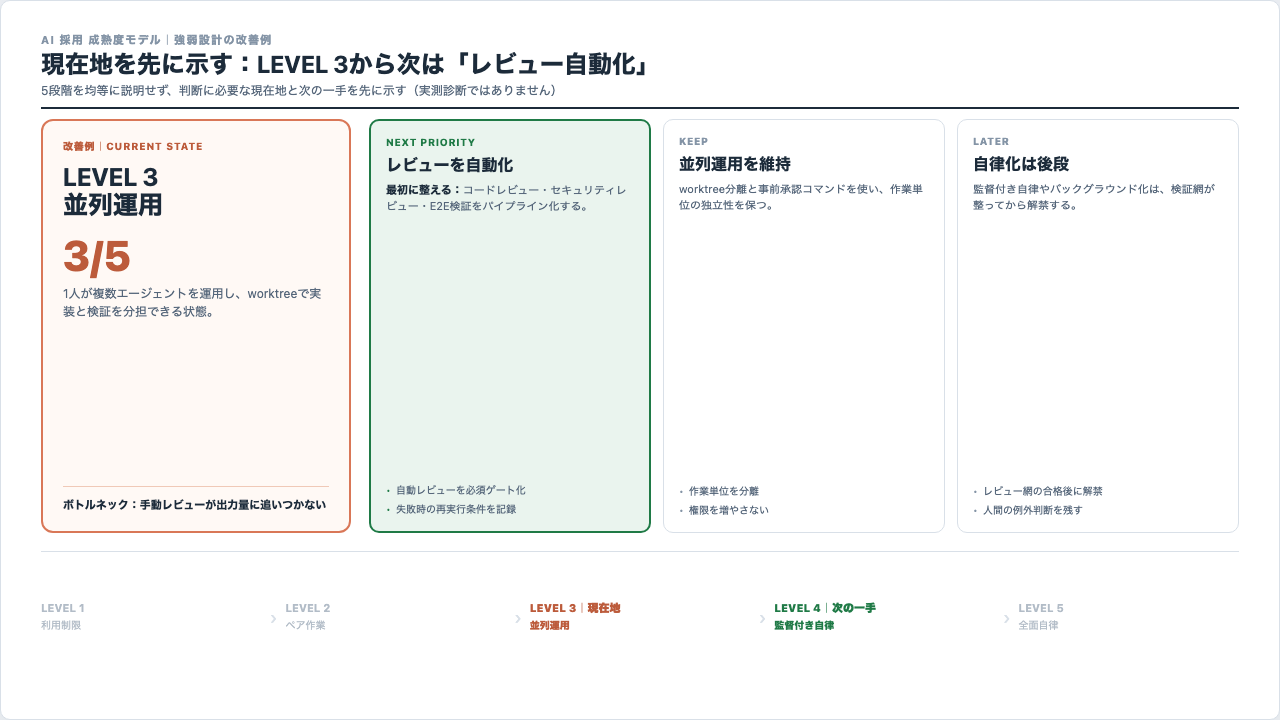
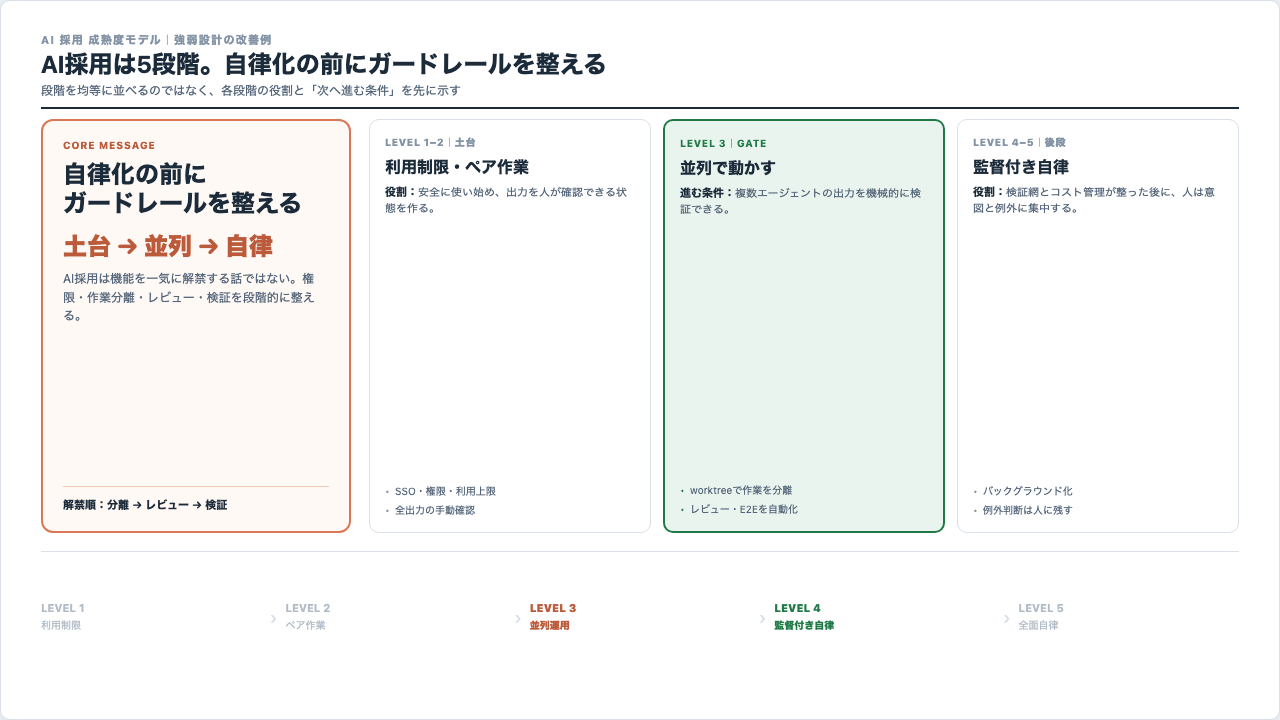
【修正】成熟度スライドの主題を復元

diff --git a/slides/AI採用成熟度-現在地と次の一手/解説スライド.html b/slides/AI採用成熟度-現在地と次の一手/解説スライド.html
@@ -1,5 +1,5 @@
 <meta charset="utf-8">
-<title>AI採用成熟度 — 現在地と次の一手（強弱設計の改善例）</title>
+<title>AI採用成熟度 — 5段階と解禁条件（強弱設計の改善例）</title>
 <style>
   :root {
     --page: #EDF0F4;
@@ -134,12 +134,12 @@
 
   .slide-meta { height: 10px; }
 
-  /* 資料全体の強弱を検証する改善版: 現在地と次の一手だけを強くする */
+  /* 資料全体の強弱を検証する改善版: 結論と解禁条件を先に強くする */
   .focus-layout { display: grid; grid-template-columns: 310px 1fr; grid-template-rows: 1fr 118px; gap: 18px; flex: 1; min-height: 0; }
   .current-panel { border: 2px solid var(--claude); border-radius: 12px; padding: 18px 20px; background: var(--focus-soft); display: flex; flex-direction: column; gap: 9px; }
   .panel-kicker { font-size: 10px; font-weight: 800; letter-spacing: .08em; color: var(--claude-deep); }
-  .current-panel h2 { font-size: 25px; line-height: 1.12; color: var(--ink); }
-  .current-score { font-size: 42px; font-weight: 800; color: var(--claude-deep); line-height: 1; margin-top: 6px; }
+  .current-panel h2 { font-size: 24px; line-height: 1.2; color: var(--ink); }
+  .current-score { font-size: 24px; font-weight: 800; color: var(--claude-deep); line-height: 1.2; margin-top: 6px; }
   .current-score small { font-size: 15px; color: var(--ink-2); font-weight: 600; }
   .current-panel p { font-size: 12px; line-height: 1.55; color: var(--ink-2); }
   .current-panel .signal { margin-top: auto; padding-top: 9px; border-top: 1px solid var(--focus-border); font-size: 11px; color: var(--ink); font-weight: 700; }
@@ -168,49 +168,49 @@
 
     <header class="slide-header">
       <span class="slide-eyebrow">AI 採用 成熟度モデル｜強弱設計の改善例</span>
-      <h1 class="slide-title">現在地を先に示す：LEVEL 3から次は「レビュー自動化」</h1>
-      <p class="slide-subtitle">5段階を均等に説明せず、判断に必要な現在地と次の一手を先に示す（実測診断ではありません）</p>
+      <h1 class="slide-title">AI採用は5段階。自律化の前にガードレールを整える</h1>
+      <p class="slide-subtitle">段階を均等に並べるのではなく、各段階の役割と「次へ進む条件」を先に示す</p>
     </header>
 
     <div class="focus-layout">
       <section class="current-panel">
-        <span class="panel-kicker">改善例｜CURRENT STATE</span>
-        <h2>LEVEL 3<br>並列運用</h2>
-        <div class="current-score">3<span>/5</span></div>
-        <p>1人が複数エージェントを運用し、worktreeで実装と検証を分担できる状態。</p>
-        <p class="signal">ボトルネック：手動レビューが出力量に追いつかない</p>
+        <span class="panel-kicker">CORE MESSAGE</span>
+        <h2>自律化の前に<br>ガードレールを整える</h2>
+        <div class="current-score">土台 → 並列 → 自律</div>
+        <p>AI採用は機能を一気に解禁する話ではない。権限・作業分離・レビュー・検証を段階的に整える。</p>
+        <p class="signal">解禁順：分離 → レビュー → 検証</p>
       </section>
 
       <section class="next-panel">
+        <article class="next-card">
+          <span class="tag">LEVEL 1–2｜土台</span>
+          <h3>利用制限・ペア作業</h3>
+          <p><strong>役割：</strong>安全に使い始め、出力を人が確認できる状態を作る。</p>
+          <ul><li>SSO・権限・利用上限</li><li>全出力の手動確認</li></ul>
+        </article>
         <article class="next-card next-card--priority">
-          <span class="tag">NEXT PRIORITY</span>
-          <h3>レビューを自動化</h3>
-          <p><strong>最初に整える：</strong>コードレビュー・セキュリティレビュー・E2E検証をパイプライン化する。</p>
-          <ul><li>自動レビューを必須ゲート化</li><li>失敗時の再実行条件を記録</li></ul>
+          <span class="tag">LEVEL 3｜GATE</span>
+          <h3>並列で動かす</h3>
+          <p><strong>進む条件：</strong>複数エージェントの出力を機械的に検証できる。</p>
+          <ul><li>worktreeで作業を分離</li><li>レビュー・E2Eを自動化</li></ul>
         </article>
         <article class="next-card">
-          <span class="tag">KEEP</span>
-          <h3>並列運用を維持</h3>
-          <p>worktree分離と事前承認コマンドを使い、作業単位の独立性を保つ。</p>
-          <ul><li>作業単位を分離</li><li>権限を増やさない</li></ul>
-        </article>
-        <article class="next-card">
-          <span class="tag">LATER</span>
-          <h3>自律化は後段</h3>
-          <p>監督付き自律やバックグラウンド化は、検証網が整ってから解禁する。</p>
-          <ul><li>レビュー網の合格後に解禁</li><li>人間の例外判断を残す</li></ul>
+          <span class="tag">LEVEL 4–5｜後段</span>
+          <h3>監督付き自律</h3>
+          <p><strong>役割：</strong>検証網とコスト管理が整った後に、人は意図と例外に集中する。</p>
+          <ul><li>バックグラウンド化</li><li>例外判断は人に残す</li></ul>
         </article>
       </section>
 
       <div class="maturity-row" aria-label="AI採用成熟度の5段階">
         <div class="maturity"><b>LEVEL 1</b>利用制限</div><div class="maturity-arrow">›</div>
         <div class="maturity"><b>LEVEL 2</b>ペア作業</div><div class="maturity-arrow">›</div>
-        <div class="maturity maturity--current"><b>LEVEL 3｜現在地</b>並列運用</div><div class="maturity-arrow">›</div>
-        <div class="maturity maturity--next"><b>LEVEL 4｜次の一手</b>監督付き自律</div><div class="maturity-arrow">›</div>
+        <div class="maturity maturity--current"><b>LEVEL 3</b>並列運用</div><div class="maturity-arrow">›</div>
+        <div class="maturity maturity--next"><b>LEVEL 4</b>監督付き自律</div><div class="maturity-arrow">›</div>
         <div class="maturity"><b>LEVEL 5</b>全面自律</div>
       </div>
 
-      <!-- 旧5段階カードの均等配置は、改善版では現在地・次の一手・後段へ再編した -->
+      <!-- 旧5段階カードの均等配置は、改善版では役割・解禁条件の順へ再編した -->
     </div>
 
     <!--

diff --git a/index.html b/index.html
@@ -1153,9 +1153,9 @@ const SLIDES = [
   },
   {
     "key": "AI採用成熟度-現在地と次の一手",
-    "title": "AI採用成熟度 — 現在地と次の一手（強弱設計の改善例）",
-    "target": "AI採用成熟度モデルを、現在地・次の重点施策・後段の順に読み替えた強弱設計の改善例",
-    "problems": "5段階を均等に説明して現在地や次の施策が埋もれる・資料全体の山場が分からない",
+    "title": "AI採用成熟度 — 5段階と解禁条件（強弱設計の改善例）",
+    "target": "AI採用成熟度モデルの5段階を、各段階の役割と解禁条件が先に読めるよう3群へ再編した強弱設計の改善例",
+    "problems": "5段階を均等に説明して段階の役割・解禁条件・資料全体の山場が埋もれる",
     "tools": [
       "claude-code"
     ],

diff --git a/slides/AI採用成熟度-現在地と次の一手/検査記録.md b/slides/AI採用成熟度-現在地と次の一手/検査記録.md
@@ -2,35 +2,35 @@
 
 ## 目的
 
-`AI採用成熟度-機能整備対応表`を、記事「詰め込みを直した、その次。AIスライドの『全部が同じ強さ』を直すプロンプト」の観点で再設計した改善例。元スライドを変更せず、前後比較用の新規スライドとして登録する。
+`AI採用成熟度-機能整備対応表`を、記事「詰め込みを直した、その次。AIスライドの『全部が同じ強さ』を直すプロンプト」の観点で再設計した改善例。元スライドを変更せず、前後比較用の新規スライドとして登録する。主題は「AI採用の5段階と、各段階で整える機能・ガードレール」であり、実在しない現在地や点数は追加しない。
 
 ## 元スライドの明確なNG
 
 | 観点 | 判定 | 根拠 |
 |---|---|---|
 | 資料全体-強弱配分 | NG | 5段階すべてが同じカード、同じ枠線、同じ文字密度で扱われ、現在地や山場が視覚的に分からない |
-| ページ役割-先行定義 | NG | 「成熟度の全項目を一覧する」ことは分かるが、読み手が最初に判断すべき現在地・次の行動が宣言されていない |
+| ページ役割-先行定義 | NG | 「成熟度の全項目を一覧する」ことは分かるが、読み手が最初に理解すべき段階の役割と解禁条件が宣言されていない |
 | 強調-過剰使用抑制 | NG | 5段階の見出し・機能・ガードレールが均等に強調され、重要度の差が出ていない |
 | 型反復-内容従属 | NG | 5段階カードを横並びにする型が内容より先に決まり、情報量の差と意思決定の優先順位を吸収できていない |
 
 ## 改善内容
 
-- 左側に「現在地」を最大の視覚単位として配置
-- 中央の3カードを「NEXT PRIORITY / KEEP / LATER」に役割分担
-- 次の一手だけを緑の強調面で示し、維持・後段は白面で静かに扱う
-- 5段階の全体像は下部の細い進行帯へ縮約し、現在地と次の段階だけ色を付ける
-- 数値は実測診断ではなく、強弱設計を示す改善例であることを明記
+- 左側に、結論「自律化の前にガードレールを整える」を最大の視覚単位として配置
+- 右側を「LEVEL 1–2 土台 / LEVEL 3 GATE / LEVEL 4–5 後段」の3群に再編
+- LEVEL 3の「並列で動かす」を、次の解禁条件として緑の強調面で示す
+- 5段階の全体像は下部の進行帯へ縮約し、全体の順序だけを確認できるようにする
+- 実在しない現在地・点数・効果数値は追加しない
 
 ## 観点レビュー
 
 | 観点 | 結果 | 備考 |
 |---|---|---|
-| 役割先行-現在地宣言 | PASS | タイトルと左パネルで現在地を先に宣言 |
-| 強弱配分-優先順位 | PASS | 現在地とNEXT PRIORITYだけを強い面・色で強調 |
-| 強調-過剰使用抑制 | PASS | KEEP/LATERは白面、成熟度の前後段は低彩度に抑制 |
+| 役割先行-結論宣言 | PASS | タイトルと左パネルで「自律化の前にガードレールを整える」を先に宣言 |
+| 強弱配分-段階グループ | PASS | 3群にまとめ、LEVEL 3の解禁条件だけを強い面・色で強調 |
+| 強調-過剰使用抑制 | PASS | 土台と後段は白面、ゲートだけを低面積の緑で強調 |
 | 型選択-内容従属 | PASS | 5段階カードの均等反復をやめ、判断順に再構成 |
 | 具体性-実値明示 | PASS | worktree、コードレビュー、E2E検証など具体語を記載 |
-| 効果数値-未検証記載禁止 | PASS | 3/5は実測値ではなく改善例であることを明記 |
+| 効果数値-未検証記載禁止 | PASS | 実在しない現在地・点数・効果数値を記載していない |
 | 文字切れ-全数目視 | PASS | 1280×720の実描画で確認 |
 | 自己完結-外部参照なし | PASS | HTML内に外部画像・フォント・fetchなし |
 | 寸法-固定1280x720 | PASS | `.slide`を1280×720に固定 |

diff --git a/docs/スライド蓄積簿.md b/docs/スライド蓄積簿.md
@@ -62,7 +62,7 @@
 | AI実装フロー-一枚俯瞰 | AI駆動開発の1タスクの実装フロー全体像と人間の関与点（依頼・計画承認・最終レビュー） | AI任せで品質を守れるのか不安。人間がどこで関与するのかを説明したい | 汎用 | hooks、subagent | 運用ルール | 開発フロー確立 | — | — | — | — | 2026-07-19 |
 | statusline-四行表示の見方 | Claude Code の statusline が表示する 4 行の項目とリング記号・色の見方 | statusline の表示が何を意味しているかわからない | claude-code | — | 環境構築 | 拡大・継続改善 | — | — | — | — | 2026-07-19 |
 | AI採用成熟度-機能整備対応表 | Anthropic AI Adoption Framework に基づく AI 採用の 5 段階成熟度モデル（Gated→AI-native）と各段階で使う機能・ガードレールの対応 | AI導入の進め方が分からない・機能を先に入れたが効果が出ない・自チームの現在地が分からない | claude-code | CLAUDE.md、subagent、sandbox、model | モデル・ツール選定、運用ルール | 全体像 | — | — | — | 段階比較型 | 2026-07-19 |
-| AI採用成熟度-現在地と次の一手 | AI採用成熟度モデルを、現在地・次の重点施策・後段の順に読み替えた強弱設計の改善例 | 5段階を均等に説明して現在地や次の施策が埋もれる・資料全体の山場が分からない | claude-code | subagent、sandbox、model | モデル・ツール選定、運用ルール | 全体像 | — | — | — | 段階比較型 | 2026-07-25 |
+| AI採用成熟度-現在地と次の一手 | AI採用成熟度モデルの5段階を、各段階の役割と解禁条件が先に読めるよう3群へ再編した強弱設計の改善例 | 5段階を均等に説明して段階の役割・解禁条件・資料全体の山場が埋もれる | claude-code | subagent、sandbox、model | モデル・ツール選定、運用ルール | 全体像 | — | — | — | 段階比較型 | 2026-07-25 |
 | 読み取り専用先行導入-権限段階解禁 | AI導入時の権限を読み取り専用→提案まで→ガード付き書き込みへ段階的に解禁する方式 | AIにコードを触らせるのが怖い。どこまで許可してよいか判断できない | 汎用 | permission | セキュリティ、運用ルール | 土台整備、ツール導入と安全装置 | — | — | — | — | 2026-07-19 |
 | 設計文書逆生成-整備自走ループ | AIによる設計文書の下書き逆生成と人のレビュー確定を循環させる整備方式 | 設計書が無い・古い既存システムで、文書整備が人手では終わらない | 汎用 | — | 環境構築 | 土台整備 | — | — | — | — | 2026-07-19 |
 | 既存コード整備優先順位-変更起点 | 変更頻度と事業重要度による整備対象の優先順位付け（全面整備をしない方針） | 巨大な既存コードのどこから整備すべきか決められない | 汎用 | — | 環境構築 | 現状診断、土台整備 | — | — | — | — | 2026-07-19 |
